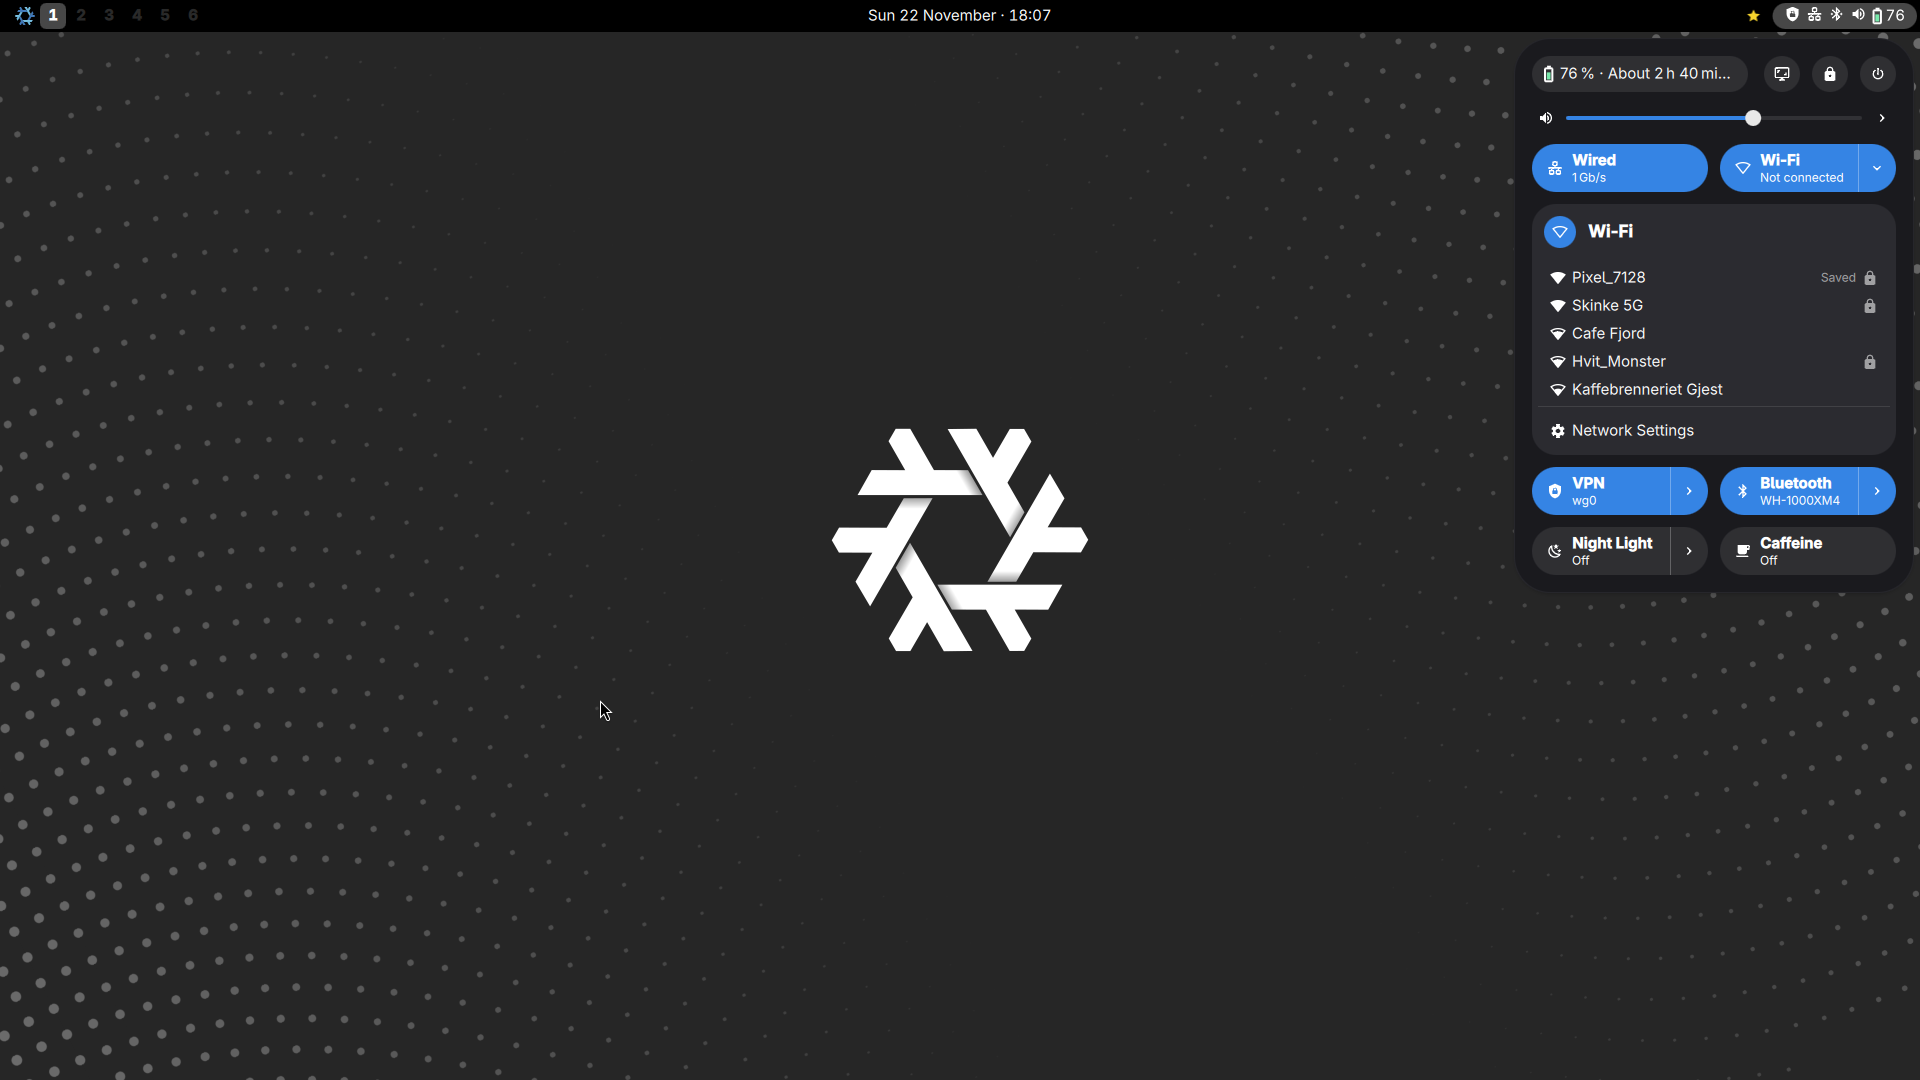
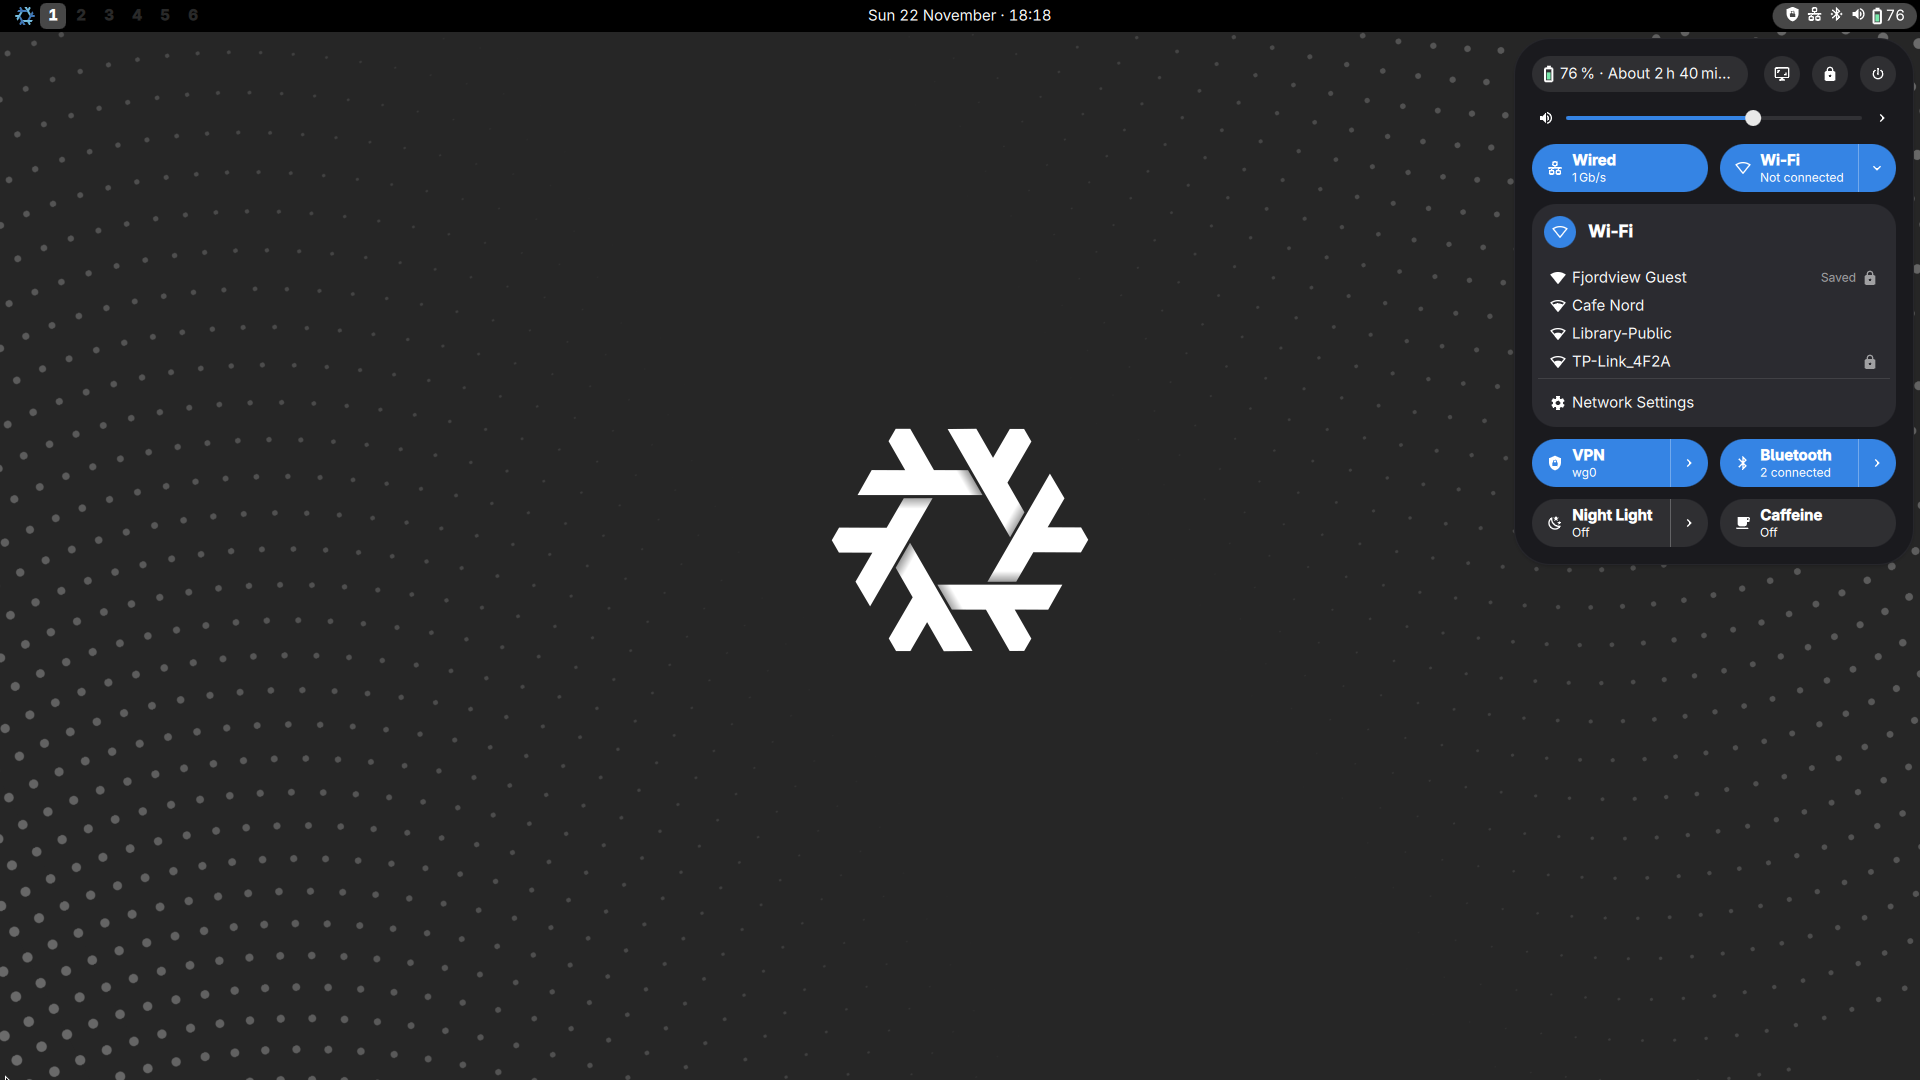
docs(readme): show every launcher and the Bluetooth menu; made-up Wi-Fi names
The Wi-Fi shot listed a real network; the fake NetworkManager now
offers only invented ones, and the clipboard is a fake history rather
than a copy of the machine's.

Changed region(s): [[0.7812, 0.2444, 1.0, 0.5194]]

diff --git a/README.md b/README.md
@@ -25,12 +25,18 @@ and headless against fake NetworkManager, BlueZ, UPower and MPRIS services.
 
 | | |
 | --- | --- |
-| ![Date menu with a player, notifications, calendar and weather](docs/gallery/center.png) | ![Quick settings with the Wi-Fi menu open](docs/gallery/controls.png) |
-| Date menu: player, notifications, calendar, MET Norway weather | Quick settings, Wi-Fi menu open |
-| ![App launcher](docs/gallery/launcher.png) | ![Notification popups](docs/gallery/notifications.png) |
-| Launcher (SUPER+D) | Notification popups |
-| ![Power menu](docs/gallery/power.png) | ![Keyboard shortcuts overlay](docs/gallery/shortcuts.png) |
-| Power menu (SUPER+X) | Keyboard shortcuts (SUPER+?) |
+| ![Date menu with a player, notifications, calendar and weather](docs/gallery/center.png) | ![Notification popups](docs/gallery/notifications.png) |
+| Date menu: player, notifications, calendar, MET Norway weather | Notification popups |
+| ![Quick settings with the Wi-Fi menu open](docs/gallery/controls.png) | ![Quick settings with the Bluetooth menu open](docs/gallery/bluetooth.png) |
+| Quick settings (SUPER+A), Wi-Fi | Quick settings, Bluetooth |
+| ![App launcher](docs/gallery/launcher.png) | ![Clipboard history](docs/gallery/clipboard.png) |
+| Apps (SUPER+D) | Clipboard history (SUPER+V) |
+| ![Window switcher with live previews](docs/gallery/windows.png) | ![Monitor layouts](docs/gallery/monitors.png) |
+| Windows, with live previews (SUPER+Tab) | Monitor layouts (SUPER+P) |
+| ![Running a package from nixpkgs](docs/gallery/nixpkgs.png) | ![Power menu](docs/gallery/power.png) |
+| Run anything from nixpkgs, sandboxed (SUPER+N) | Power menu (SUPER+X) |
+| ![Keyboard shortcuts overlay](docs/gallery/shortcuts.png) | |
+| Keyboard shortcuts (SUPER+?) | |
 
 ## Using a module elsewhere
 
